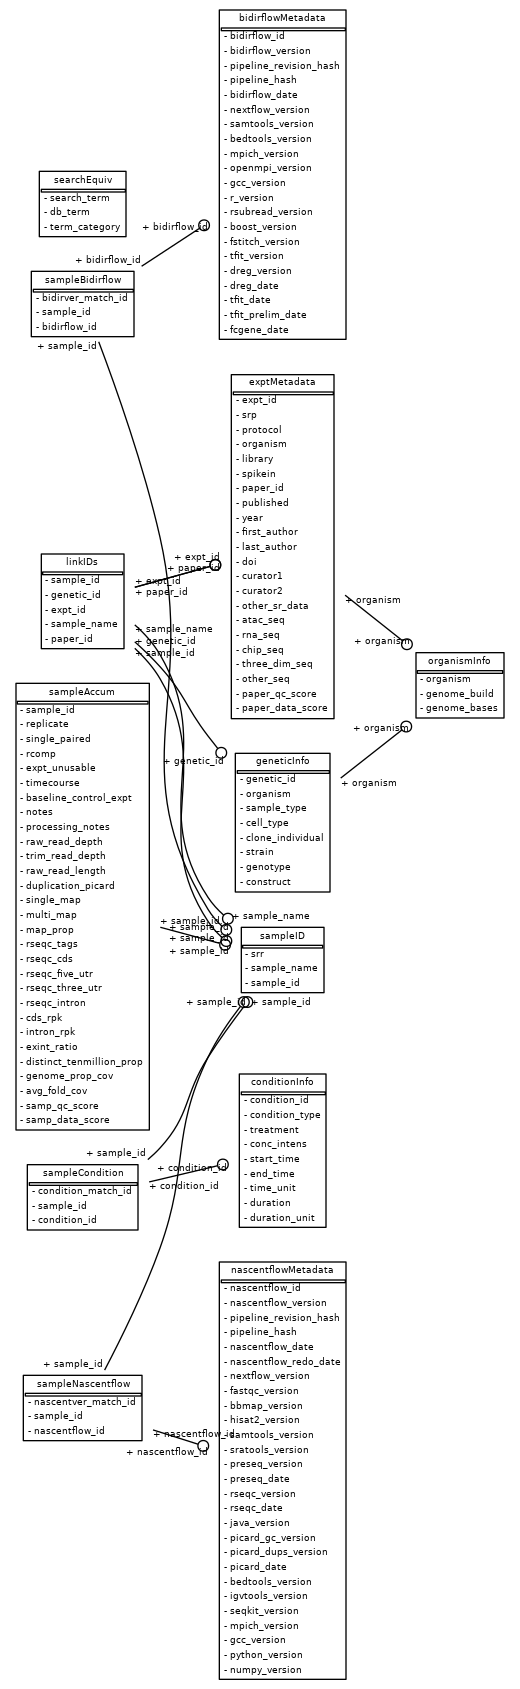
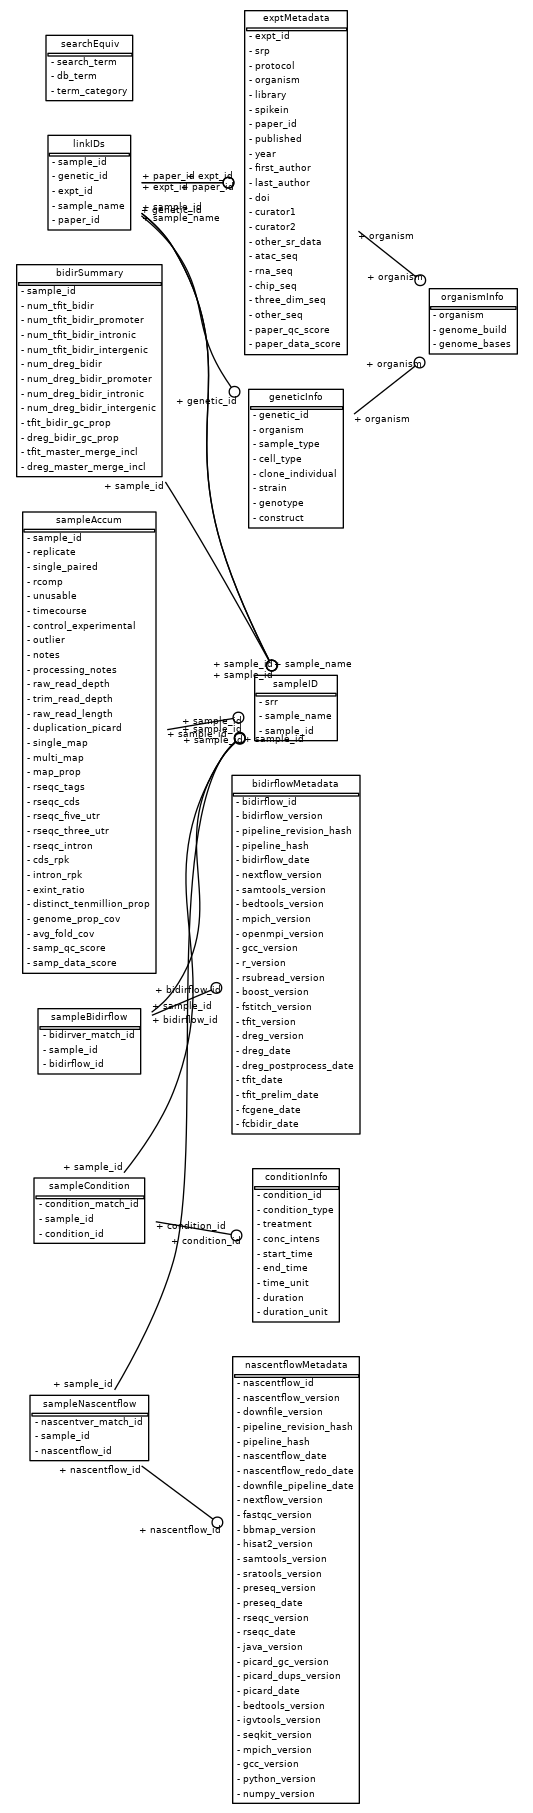
A few typo fixes and added new schema to reflect db changes

diff --git a/db_paper_add_update.py b/db_paper_add_update.py
@@ -264,7 +264,7 @@ for condition in cond_preparse:
                 new_cond["time_unit"] = time[2]
 
                 # Calculate duration and units
-                duration_list = duration_calc(time)
+                duration_list = dbutils.duration_calc(time)
                 new_cond["duration"] = int(duration_list[0])
                 new_cond["duration_unit"] = duration_list[1]
             else:
@@ -387,17 +387,20 @@ if (exists(tfitsummary_path) or exists(dregsummary_path)):
         # Combine metatables if both summary files exist
         if exists(dregsummary_path):
             dreg_summary = dbutils.Metatable(dregsummary_path)
-            bidir_sumdata = key_store_compare(
-                                tfit_summary.data,
-                                dreg_summary.data,
-                                ["sample_id"],
-                                ["num_dreg_bidir",
-                                 "num_dreg_bidir_promoter",
-                                 "num_dreg_bidir_intronic",
-                                 "num_dreg_bidir_intergenic",
-                                 "dreg_bidir_gc_prop",
-                                ]
-                            )
+            bidir_sumdata = []
+            for tfit_entry in tfit_summary.data:
+                bidir_entry = dbutils.key_store_compare(
+                                  tfit_entry,
+                                  dreg_summary.data,
+                                  ["sample_name",],
+                                  ["num_dreg_bidir",
+                                   "num_dreg_bidir_promoter",
+                                   "num_dreg_bidir_intronic",
+                                   "num_dreg_bidir_intergenic",
+                                   "dreg_bidir_gc_prop",
+                                  ]
+                              )
+                bidir_sumdata.append(bidir_entry)
             bidir_summary = dbutils.Metatable(bidir_sumdata)
 
         # Make blank dreg key/value pairs if dreg file doesn't exist
@@ -429,8 +432,8 @@ if (exists(tfitsummary_path) or exists(dregsummary_path)):
     tfit_merge_files = [config["file_locations"]["hg38_dreg_master_merge"],
                         config["file_locations"]["mm10_dreg_master_merge"],
                        ]
-    dreg_merge_ids = merge_list_accum(dreg_merge_files)
-    tfit_merge_ids = merge_list_accum(tfit_merge_files)
+    dreg_merge_ids = dbutils.merge_list_accum(dreg_merge_files)
+    tfit_merge_ids = dbutils.merge_list_accum(tfit_merge_files)
 
     for bidir_entry in bidir_summary.data:
         if paper_id in dreg_merge_ids:
@@ -442,47 +445,47 @@ if (exists(tfitsummary_path) or exists(dregsummary_path)):
         else:
             bidir_entry["tfit_master_merge_incl"] = 0
 
-# Add sample_id values onto metatable
-dblink_dump = dbconnect.reflect_table("linkIDs")
+    # Add sample_id values onto metatable
+    dblink_dump = dbconnect.reflect_table("sampleID")
 
-for bidirsum in bidir_summary.data:
-    dbutils.key_store_compare(
-        bidirsum,
-        dblink_dump,
-        ["sample_name"],
-        ["sample_id"]
-    )
+    for bidirsum in bidir_summary.data:
+        dbutils.key_store_compare(
+            bidirsum,
+            dblink_dump,
+            ["sample_name"],
+            ["sample_id"]
+        )
 
-# Change datatypes for unique calc
-for bidirsum in bidir_summary.data:
-    for key in bidirsum:
-        bidirsum[key] = str(bidirsum[key])
-
-# If not present, add bidir summary info to database
-try:
-    bidir_summary_unique = bidir_summary.unique(dbbidirsummary_keys)
-except KeyError:
-    print(paper_id)
-bidir_summary_to_add = dbutils.entry_update(
-                           dbconnect,
-                           "bidirSummary",
-                           dbbidirsummary_keys,
-                           bidir_summary_unique
-                       )
-if len(bidir_summary_to_add) > 0:
-    for bidirsum in bidir_summary_to_add:
-        for key in ["tfit_master_merge_incl", "dreg_master_merge_incl"]:
-            if bidirsum[key] == '1':
-                bidirsum[key] = True
-            elif bidirsum[key] == '0':
-                bidirsum[key] = False
+    # Change datatypes for unique calc
+    for bidirsum in bidir_summary.data:
         for key in bidirsum:
-            if bidirsum[key] == 'None':
-                bidirsum[key] = None
-    dbconnect.engine.execute(
-        dborm.bidirSummary.__table__.insert(),
-        bidir_summary_to_add
-    )
+            bidirsum[key] = str(bidirsum[key])
+
+    # If not present, add bidir summary info to database
+    try:
+        bidir_summary_unique = bidir_summary.unique(dbbidirsummary_keys)
+    except KeyError:
+        print(paper_id)
+    bidir_summary_to_add = dbutils.entry_update(
+                               dbconnect,
+                               "bidirSummary",
+                               dbbidirsummary_keys,
+                               bidir_summary_unique
+                           )
+    if len(bidir_summary_to_add) > 0:
+        for bidirsum in bidir_summary_to_add:
+            for key in ["tfit_master_merge_incl", "dreg_master_merge_incl"]:
+                if bidirsum[key] == '1':
+                    bidirsum[key] = True
+                elif bidirsum[key] == '0':
+                    bidirsum[key] = False
+            for key in bidirsum:
+                if bidirsum[key] == 'None':
+                    bidirsum[key] = None
+        dbconnect.engine.execute(
+            dborm.bidirSummary.__table__.insert(),
+            bidir_summary_to_add
+        )
 
 ### Step 10: Make sampleAccum table ###
 
@@ -559,7 +562,7 @@ for sample in sampmeta.data:
 
     # Calculate qc and data scores
     # Uses bidir summary stats for data scores if available
-    score_dict = dbutils.sample_qc_calc(sample, samp_thresholds)
+    score_dict = dbutils.sample_qc_calc(dbconnect, sample, samp_thresholds)
     sample.update(score_dict)
 
     # Parse replicate number
@@ -584,7 +587,7 @@ accum_to_add = dbutils.entry_update(
                )
 if len(accum_to_add) > 0:
     for accsamp in accum_to_add:
-        for key in ["rcomp", "expt_unusable", "timecourse"]:
+        for key in ["rcomp", "unusable", "timecourse", "outlier"]:
             if accsamp[key] == '1':
                 accsamp[key] = True
             elif accsamp[key] == '0':

diff --git a/dbutils.py b/dbutils.py
@@ -652,8 +652,8 @@ def duration_calc(time_list) -> list:
         duration_list (list) :
             list containing treatment duration ([0]) and duration units ([1])
     """
-    duration = int(time[1]) - int(time[0])
-    if time[2] == "s":
+    duration = int(time_list[1]) - int(time_list[0])
+    if time_list[2] == "s":
         if duration % 60 == 0:
             if duration % 3600 == 0:
                 if duration % 86400 == 0:
@@ -667,7 +667,7 @@ def duration_calc(time_list) -> list:
                 duration_unit = "min"
         else:
             duration_unit = "s"
-    elif time[2] == "min":
+    elif time_list[2] == "min":
         if duration % 60 == 0:
             if duration % 1440 == 0:
                 duration = duration / 1440
@@ -677,7 +677,7 @@ def duration_calc(time_list) -> list:
                 duration_unit = "hr"
         else:
             duration_unit = "min"
-    elif time[2] == "hr":
+    elif time_list[2] == "hr":
         if duration % 24 == 0:
             duration = duration / 24
             duration_unit = "day"
@@ -1063,10 +1063,13 @@ def scrape_pileup(paper_id, sample_name, data_path):
     return pileup_dict
 
 
-def sample_qc_calc(db_sample, thresholds) -> dict:
+def sample_qc_calc(dbconn, db_sample, thresholds) -> dict:
     """Calculate sample qc and data scores.
 
     Parameters:
+        dbconn (sqlalchemy database connection) :
+            database connection object
+
         db_sample (dict) :
             sample_accum entry dict from db query
 

diff --git a/schema_create.py b/schema_create.py
@@ -1,0 +1,39 @@
+#!/usr/bin/env python
+#
+# Filename: schema_create.py
+# Description: Make database schema diagram
+# Authors: Lynn Sanford <lynn.sanford@colorado.edu>
+#
+
+# Commentary:
+#
+# This file uses the package SchemaDisplay to create a db schema
+# https://github.com/sqlalchemy/sqlalchemy/wiki/SchemaDisplay
+#
+
+# Code:
+
+# Import
+import sqlalchemy as sql
+import dbutils
+import dborm
+from sqlalchemy import MetaData
+from sqlalchemy_schemadisplay import create_schema_graph
+
+# Load config file and connect to db
+config = dbutils.load_config(
+    "/scratch/Shares/dowell/dbnascent/DBNascent-build/config_query.txt")
+db_url = config["file_locations"]["database"]
+creds = config["file_locations"]["credentials"]
+dbconnect = dbutils.dbnascentConnection(db_url, creds)
+
+# create the pydot graph object by autoloading all tables via a bound metadata object
+graph = create_schema_graph(metadata=MetaData(dbconnect.engine),
+    show_datatypes=False, # The image would get nasty big if we'd show the datatypes
+    show_indexes=False, # ditto for indexes
+    rankdir='LR', # From left to right (instead of top to bottom)
+    concentrate=False # Don't try to join the relation lines together
+)
+graph.write_png("/scratch/Shares/dowell/dbnascent/DBNascent-build/dbschema.png")
+
+# schema_create.py ends here

diff --git a/README.md b/README.md
@@ -1,4 +1,5 @@
 # DBNascent_build
+## Version 1.1
 
 This repository is intended for building, updating, and querying DBNascent. This is a MySQL database cataloguing all nascent sequencing experiments in the SRA through 2020. The database has been built and maintained by the DnA Lab at University of Colorado Boulder.
 
